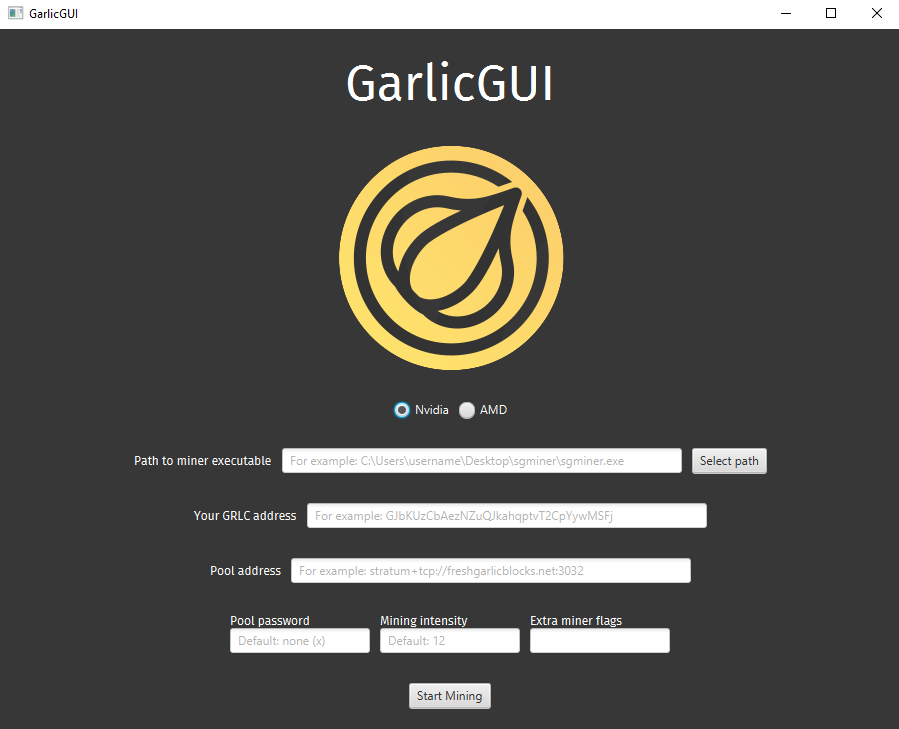
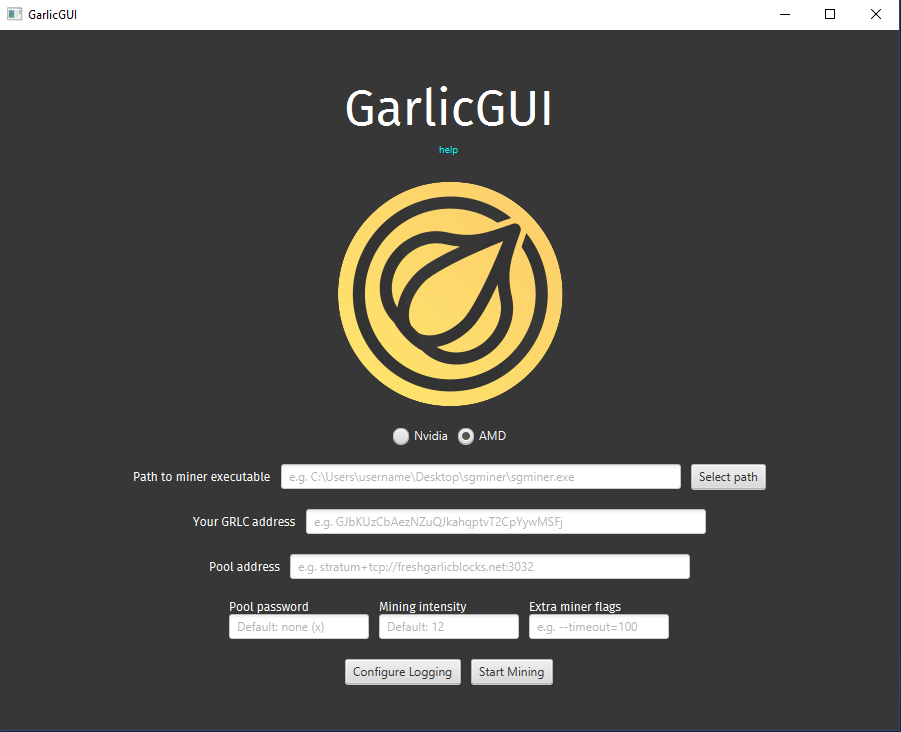
Added logging options

Changed region(s): [[0.0, 0.0, 1.0, 1.0], [0.0, 0.0, 0.0934, 0.0302], [0.9032, 0.0, 0.9344, 0.0302]]

diff --git a/src/main/view/MainController.java b/src/main/view/MainController.java
@@ -34,8 +34,11 @@ import javafx.util.Duration;
 public class MainController {
 
     private PrintWriter logWriter;
-    private ParallelTransition setup_vboxPT, mining_vboxPT;
-    private RotateTransition garlic_imageRT;
+    private ParallelTransition setupVBBoxPTInLeft, setupVBBoxPTOutLeft;
+    private ParallelTransition miningVBoxPTInRight;
+    private ParallelTransition loggingConfigVBoxPTInRight, loggingConfigVBoxPTOutRight;
+    private RotateTransition garlicImageRT;
+    private boolean minerLoggingChecked, GarlicGUILoggingChecked;
 
     @FXML
     VBox setupVBox;
@@ -50,7 +53,7 @@ public class MainController {
     @FXML
     Hyperlink helpLink;
     @FXML
-    Button goButton;
+    Button goButton, configLogsButton;
 
     @FXML
     VBox miningVBox;
@@ -62,6 +65,49 @@ public class MainController {
     HBox AMDHashrateAvgHBox, AMDHashrate5sHBox, NvidiaHashrateHBox;
     @FXML
     Button minerPathButton;
+
+    @FXML
+    VBox loggingConfigVBox;
+    @FXML
+    CheckBox GarlicGUILoggingCheckBox, minerLoggingCheckBox;
+
+    public void initialize() {
+        // Focus on the only visible VBox
+        setupVBox.toFront();
+
+        // Setup transitions
+        setupVBBoxPTInLeft = Fade.createFadeInLeft(setupVBox);
+        setupVBBoxPTOutLeft = Fade.createFadeOutLeft(setupVBox);
+        miningVBoxPTInRight = Fade.createFadeInRight(miningVBox);
+        loggingConfigVBoxPTInRight = Fade.createFadeInRight(loggingConfigVBox);
+        loggingConfigVBoxPTOutRight = Fade.createFadeOutRight(loggingConfigVBox);
+
+        garlicImageRT = new RotateTransition(Duration.millis(3000), garlicImg);
+        garlicImageRT.setByAngle(360);
+        garlicImageRT.setCycleCount(Animation.INDEFINITE);
+        garlicImageRT.setInterpolator(Interpolator.LINEAR);
+
+        // Radio buttons
+        ToggleGroup GPUToggleGroup = new ToggleGroup();
+        NvidiaRadioButton.setToggleGroup(GPUToggleGroup);
+        AMDRadioButton.setToggleGroup(GPUToggleGroup);
+
+        // Load all previous Settings from file using Settings class
+        Map<String, String> settingsObj = Settings.getSettings();
+        logText("Serialized Settings map loaded");
+
+        String gpu = settingsObj.get("GPUType");
+        if (gpu.equals("nvidia")) GPUToggleGroup.selectToggle(NvidiaRadioButton);
+        else GPUToggleGroup.selectToggle(AMDRadioButton);
+
+        minerPathTextField.setText(settingsObj.get("minerPath"));
+        GRLCAddressTextField.setText(settingsObj.get("GRLCAddress"));
+        poolAddressTextField.setText(settingsObj.get("poolAddress"));
+        minerIntensityTextField.setText(settingsObj.get("minerIntensity"));
+        minerFlagsTextField.setText(settingsObj.get("minerFlags"));
+
+        setupLogging();
+    }
 
     @FXML
     private void findMinerPath(ActionEvent event) {
@@ -77,10 +123,8 @@ public class MainController {
         // Set chosen dir to textField
         minerPathTextField.setText(selectedFile.toString());
     }
-
     @FXML
     private void loadMiner(){
-
         // Get all options
         String minerPath = minerPathTextField.getText().trim();
         String poolAddress = poolAddressTextField.getText().trim();
@@ -108,6 +152,7 @@ public class MainController {
         minerIntensityTextField.setDisable(true);
         minerFlagsTextField.setDisable(true);
         minerPathButton.setDisable(true);
+        configLogsButton.setDisable(true);
 
         // exe path, pool address, GRLC address, mining intensity, pool password, extra flags
         String sgminer_cmd = "%s --algorithm scrypt-n --nfactor 11 -o %s -u %s -I %s -p %s --api-listen --api-allow W:127.0.0.1 %s";
@@ -140,12 +185,12 @@ public class MainController {
         logText("Executing: " + to_execute);
 
         // Start rotating symbol to show loading
-        garlic_imageRT.play();
+        garlicImageRT.play();
 
         // Get miner name from path
         String minerExecutable = new File(minerPathTextField.getText()).getName();
         // Thread for running miner executable
-        Runnable minerCMDThread = new CMDThread(to_execute, minerExecutable, "minerCMDThread.log");
+        Runnable minerCMDThread = new CMDThread(to_execute, minerExecutable, "minerCMDThread.log", minerLoggingChecked);
         new Thread(minerCMDThread).start();
         logText("minerCMDThread started");
 
@@ -178,9 +223,11 @@ public class MainController {
                 }
 
                 // Run transitions
-                setup_vboxPT.play();
-                mining_vboxPT.play();
-                miningVBox.setVisible(true);
+                Platform.runLater(() -> {
+                    setupVBBoxPTOutLeft.play();
+                    miningVBoxPTInRight.play();
+                    miningVBox.toFront();
+                });
 
                 // Get summary results from the API every second and update labels
                 // ToDo: Implement dev api (gpu usage, temp, etc.)
@@ -194,7 +241,6 @@ public class MainController {
             }
         }).start();
     }
-
     @FXML
     private void stopMiner() {
         logText("stopMiner() called, exiting");
@@ -213,7 +259,6 @@ public class MainController {
             rejectedSharesLabel.setText(api_summary_jsonObject.get("Rejected").toString());
         });
     }
-
     private void nvidiaUpdateInfo(SocketObject miner_api) throws IOException {
         Map<String, String> api_summary_map = CCMinerAPI.pingInfo(miner_api);
         Platform.runLater(() -> {
@@ -238,83 +283,54 @@ public class MainController {
         settingsObj.put("poolAddress", poolAddressTextField.getText().trim());
         settingsObj.put("minerIntensity", minerIntensityTextField.getText().trim());
         settingsObj.put("minerFlags", minerFlagsTextField.getText().trim());
+        settingsObj.put("GarlicGUILogging", String.valueOf(GarlicGUILoggingCheckBox.isSelected()));
+        settingsObj.put("minerLogging", String.valueOf(minerLoggingCheckBox.isSelected()));
         Settings.setSettings(settingsObj);
     }
 
-    public void initialize() {
-        // ToDo: Allow user to disable / enable logging (both MainController & CMDThread logging separately)
-        // Setup logging to file
-        try {
-            logWriter = new PrintWriter("GarlicGUI.log", "UTF-8");
-        } catch (IOException e) {
-            StacktraceAlert.create(
-                    "Log file error",
-                    "Cannot create new PrintWriter to GarlicGUI.log",
-                    "MainController.initialize threw IOException",
-                    e
-            );
-        }
-
-        Runtime.getRuntime().addShutdownHook(new Thread(() -> {
-            // Close log file
-            logWriter.close();
-        }));
-
-        // Setup transitions
-        Integer transitionDuration = 2000;
-
-        FadeTransition setup_vboxFT = new FadeTransition(Duration.millis(transitionDuration), setupVBox);
-        setup_vboxFT.setFromValue(1.0);
-        setup_vboxFT.setToValue(0.0);
-        TranslateTransition setup_vboxTT = new TranslateTransition(Duration.millis(transitionDuration), setupVBox);
-        setup_vboxTT.setFromX(0);
-        setup_vboxTT.setToX(-300);
-        setup_vboxPT = new ParallelTransition();
-        setup_vboxPT.getChildren().addAll(
-                setup_vboxFT,
-                setup_vboxTT
-        );
-
-        FadeTransition mining_vboxFT = new FadeTransition(Duration.millis(transitionDuration), miningVBox);
-        mining_vboxFT.setFromValue(0.0);
-        mining_vboxFT.setToValue(1.0);
-        TranslateTransition mining_vboxTT = new TranslateTransition(Duration.millis(transitionDuration), miningVBox);
-        mining_vboxTT.setFromX(300);
-        mining_vboxTT.setToX(0);
-        mining_vboxPT = new ParallelTransition();
-        mining_vboxPT.getChildren().addAll(
-                mining_vboxFT,
-                mining_vboxTT
-        );
-
-        garlic_imageRT = new RotateTransition(Duration.millis(3000), garlicImg);
-        garlic_imageRT.setByAngle(360);
-        garlic_imageRT.setCycleCount(Animation.INDEFINITE);
-        garlic_imageRT.setInterpolator(Interpolator.LINEAR);
-
-        // Radio buttons
-        ToggleGroup GPUToggleGroup = new ToggleGroup();
-        NvidiaRadioButton.setToggleGroup(GPUToggleGroup);
-        AMDRadioButton.setToggleGroup(GPUToggleGroup);
-
-        // Load all previous Settings from file using Settings class
-        Map<String, String> settingsObj = Settings.getSettings();
-        logText("Serialized Settings map loaded");
-
-        String gpu = settingsObj.get("GPUType");
-        if (gpu.equals("nvidia")) GPUToggleGroup.selectToggle(NvidiaRadioButton);
-        else GPUToggleGroup.selectToggle(AMDRadioButton);
-
-        minerPathTextField.setText(settingsObj.get("minerPath"));
-        GRLCAddressTextField.setText(settingsObj.get("GRLCAddress"));
-        poolAddressTextField.setText(settingsObj.get("poolAddress"));
-        minerIntensityTextField.setText(settingsObj.get("minerIntensity"));
-        minerFlagsTextField.setText(settingsObj.get("minerFlags"));
-    }
-
     private void logText(String text) {
-        DateFormat dateFormat = new SimpleDateFormat("HH:mm:ss");
-        logWriter.println("[" + dateFormat.format(new Date()) + "] " + text);
+        if (GarlicGUILoggingChecked) {
+            DateFormat dateFormat = new SimpleDateFormat("HH:mm:ss");
+            logWriter.println("[" + dateFormat.format(new Date()) + "] " + text);
+        }
+    }
+    private void setupLogging() {
+        // Pull fresh settings from file and setup logging variables
+        Map<String, String> settingsObj = Settings.getSettings();
+        GarlicGUILoggingChecked = Boolean.parseBoolean(settingsObj.get("GarlicGUILogging"));
+        minerLoggingChecked = Boolean.parseBoolean(settingsObj.get("minerLogging"));
+        GarlicGUILoggingCheckBox.setSelected(GarlicGUILoggingChecked);
+        minerLoggingCheckBox.setSelected(minerLoggingChecked);
+
+        if (GarlicGUILoggingChecked) {
+            // Setup logging to file
+            try {
+                logWriter = new PrintWriter("GarlicGUI.log", "UTF-8");
+            } catch (IOException e) {
+                StacktraceAlert.create(
+                        "Log file error",
+                        "Cannot create new PrintWriter to GarlicGUI.log",
+                        "MainController.initialize threw IOException",
+                        e
+                );
+            }
+            // Close log file when program closed
+            Runtime.getRuntime().addShutdownHook(new Thread(() -> logWriter.close()));
+        }
+    }
+    @FXML
+    private void openLogConfig() {
+        setupVBBoxPTOutLeft.play();
+        loggingConfigVBoxPTInRight.play();
+        loggingConfigVBox.toFront();
+    }
+    @FXML void backToSetup() {
+        // When leaving logging config screen, re-save settings then update all logging vars
+        saveSettings();
+        setupLogging();
+        setupVBBoxPTInLeft.play();
+        loggingConfigVBoxPTOutRight.play();
+        setupVBox.toFront();
     }
 
     @FXML

diff --git a/src/main/view/Fade.java b/src/main/view/Fade.java
@@ -1,0 +1,75 @@
+package main.view;
+
+import javafx.animation.FadeTransition;
+import javafx.animation.ParallelTransition;
+import javafx.animation.TranslateTransition;
+import javafx.scene.layout.VBox;
+import javafx.util.Duration;
+
+public class Fade {
+
+    private static Integer transitionDuration = 1000;
+
+    public static ParallelTransition createFadeOutLeft(VBox VBoxToFade) {
+        // Will become more opaque and translate from the centre towards the left side
+        FadeTransition newFadeTrans = new FadeTransition(Duration.millis(transitionDuration), VBoxToFade);
+        newFadeTrans.setFromValue(1.0);
+        newFadeTrans.setToValue(0.0);
+        TranslateTransition newTranslateTrans = new TranslateTransition(Duration.millis(transitionDuration), VBoxToFade);
+        newTranslateTrans.setFromX(0);
+        newTranslateTrans.setToX(-300);
+        ParallelTransition returnPT = new ParallelTransition();
+        returnPT.getChildren().addAll(
+                newFadeTrans,
+                newTranslateTrans
+        );
+        return returnPT;
+    }
+
+    public static ParallelTransition createFadeOutRight(VBox VBoxToFade) {
+        FadeTransition newFadeTrans = new FadeTransition(Duration.millis(transitionDuration), VBoxToFade);
+        newFadeTrans.setFromValue(1.0);
+        newFadeTrans.setToValue(0.0);
+        TranslateTransition newTranslateTrans = new TranslateTransition(Duration.millis(transitionDuration), VBoxToFade);
+        newTranslateTrans.setFromX(0);
+        newTranslateTrans.setToX(300);
+        ParallelTransition returnPT = new ParallelTransition();
+        returnPT.getChildren().addAll(
+                newFadeTrans,
+                newTranslateTrans
+        );
+        return returnPT;
+    }
+
+    public static ParallelTransition createFadeInRight(VBox VBoxToFade) {
+        // Will become less opaque and translate towards the centre from the right side
+        FadeTransition newFadeTrans = new FadeTransition(Duration.millis(transitionDuration), VBoxToFade);
+        newFadeTrans.setFromValue(0.0);
+        newFadeTrans.setToValue(1.0);
+        TranslateTransition newTranslateTrans = new TranslateTransition(Duration.millis(transitionDuration), VBoxToFade);
+        newTranslateTrans.setFromX(300);
+        newTranslateTrans.setToX(0);
+        ParallelTransition returnPT = new ParallelTransition();
+        returnPT.getChildren().addAll(
+                newFadeTrans,
+                newTranslateTrans
+        );
+        return returnPT;
+    }
+
+    public static ParallelTransition createFadeInLeft(VBox VBoxToFade) {
+        FadeTransition newFadeTrans = new FadeTransition(Duration.millis(transitionDuration), VBoxToFade);
+        newFadeTrans.setFromValue(0.0);
+        newFadeTrans.setToValue(1.0);
+        TranslateTransition newTranslateTrans = new TranslateTransition(Duration.millis(transitionDuration), VBoxToFade);
+        newTranslateTrans.setFromX(-300);
+        newTranslateTrans.setToX(0);
+        ParallelTransition returnPT = new ParallelTransition();
+        returnPT.getChildren().addAll(
+                newFadeTrans,
+                newTranslateTrans
+        );
+        return returnPT;
+    }
+
+}

diff --git a/src/main/view/CMDThread.java b/src/main/view/CMDThread.java
@@ -10,22 +10,26 @@ public class CMDThread implements Runnable {
     private String cmdString;
     private String exeName;
     private PrintWriter logWriter;
+    private boolean loggingEnabled;
 
-    CMDThread(String to_execute, String minerExecutable, String logFileName) {
+    CMDThread(String toExecute, String minerExecutable, String logFileName, boolean loggingEnabledParam) {
 
-        try {
-            logWriter = new PrintWriter(logFileName, "UTF-8");
-        } catch (IOException e) {
-            StacktraceAlert.create(
-                    "Log file error",
-                    "Cannot create new PrintWriter to " + logFileName,
-                    "CMDThread.logWriter threw IOException",
-                    e
-            );
+        if (loggingEnabledParam) {
+            try {
+                logWriter = new PrintWriter(logFileName, "UTF-8");
+            } catch (IOException e) {
+                StacktraceAlert.create(
+                        "Log file error",
+                        "Cannot create new PrintWriter to " + logFileName,
+                        "CMDThread.logWriter threw IOException",
+                        e
+                );
+            }
         }
 
-        cmdString = to_execute;
+        cmdString = toExecute;
         exeName = minerExecutable;
+        loggingEnabled = loggingEnabledParam;
 
     }
 
@@ -48,7 +52,7 @@ public class CMDThread implements Runnable {
                     // Do nothing
                 }
                 // Finally, close log file
-                logWriter.close();
+                if (loggingEnabled) logWriter.close();
             }));
 
             BufferedReader r = new BufferedReader(new InputStreamReader(p.getInputStream()));
@@ -58,7 +62,7 @@ public class CMDThread implements Runnable {
                 String line = r.readLine();
                 if (line == null) break;
                 // Don't log API info (no point, will just create massive file)
-                if (!line.contains("API: ") && !line.trim().equals("") && !line.trim().equals("'")) logWriter.println(line);
+                if (!line.contains("API: ") && !line.trim().equals("") && !line.trim().equals("'") && loggingEnabled) logWriter.println(line);
             }
 
         }
